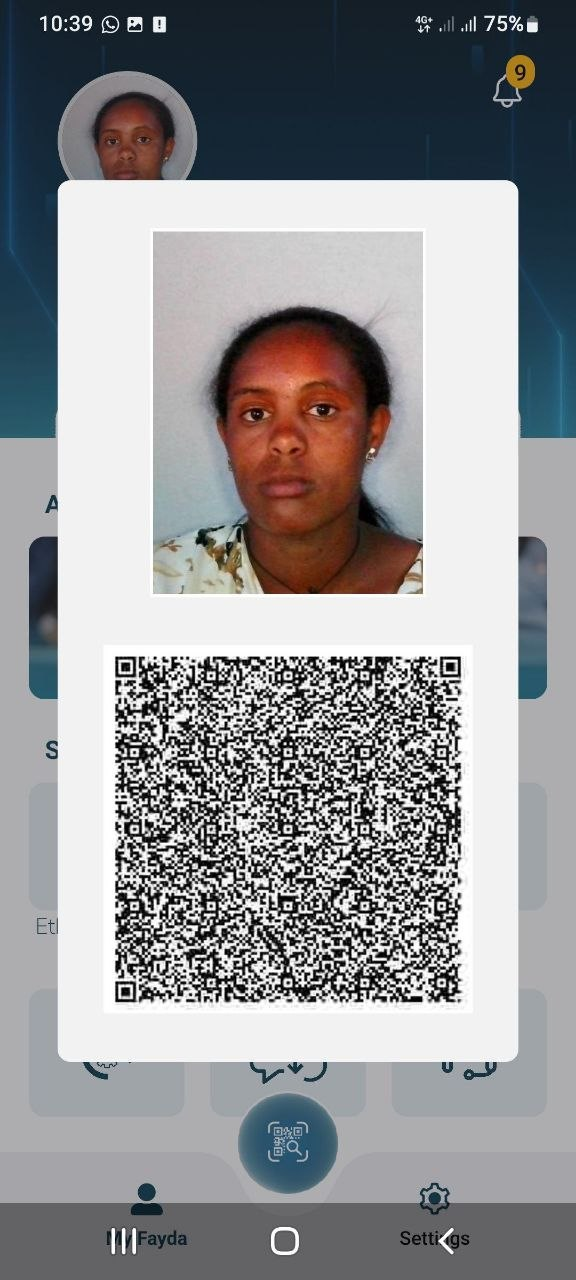
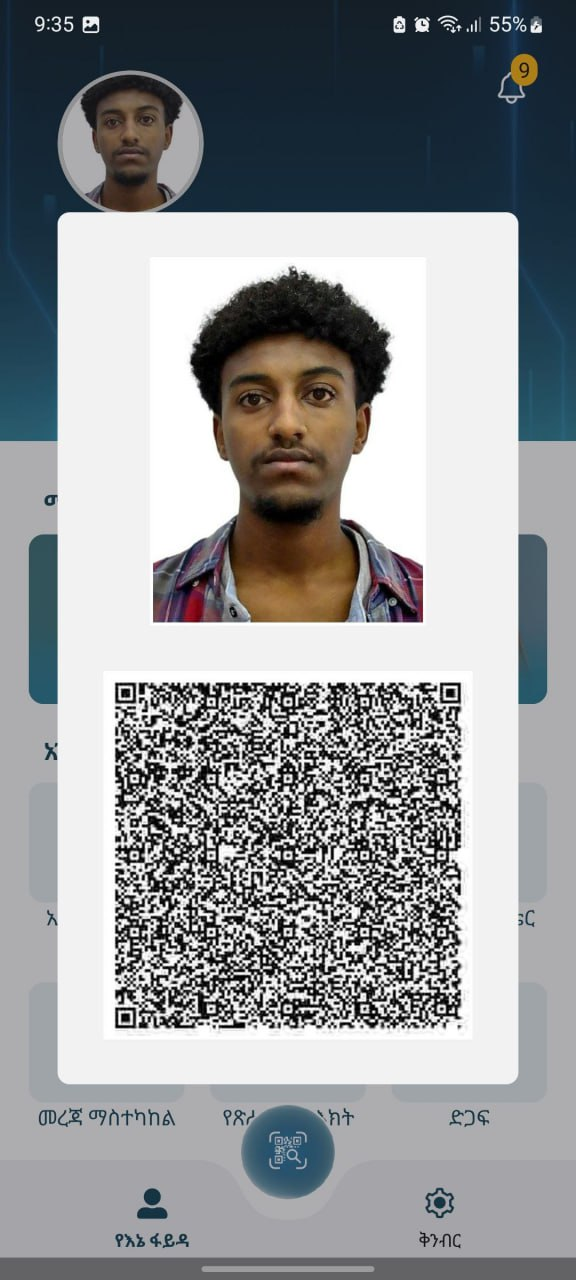
feat: enhance Amharic name extraction from QR codes, refactor transliteration logic, and update sample ID card data.

diff --git a/final_id_result.html b/final_id_result.html
@@ -747,23 +747,23 @@
           <div class="field" style="margin-bottom:8px;">
             <span class="label">ሙሉ ስም | Full Name</span>
             <div class="val-am">
-              ገንዘብ ተክሉ ጥላሁን
+              ካለአብ አስፍው ሙሉጌታ
             </div>
             <div class="val-en">
-              Genzeb Teklu Tilahun
+              Kaleab Asfaw Mulugeta
             </div>
           </div>
           <div class="field">
             <span class="label">የትውልድ ቀን | Date of Birth</span>
             <div class="val-inline">
               
-              05/06/1971 | 2006/01/23
+              05/06/1971 | 2002/10/03
               
             </div>
           </div>
           <div class="field">
             <span class="label">ፆታ | Sex</span>
-            <div class="val-inline">ሴት | Female</div>
+            <div class="val-inline">ወንድ | Male</div>
           </div>
           <div class="field">
             <span class="label">የሚቆይበት ቀን | Date of Expiry</span>
@@ -799,7 +799,7 @@
           <div class="left-side">
             <div class="field">
               <span class="label">ስልክ | Phone Number</span>
-              <div class="val-inline">0950513818</div>
+              <div class="val-inline">0930838126</div>
             </div>
             <div class="field">
               <span class="label">ዜግነት | Nationality<br>
@@ -811,14 +811,14 @@
             <div class="field">
               <span class="label">አድራሻ | Address</span>
               <div class="val-inline">
-                ኦሮሚያ<br>Oromia<br>
-                በአለእ<br>Bale<br>
-                አገአረፈአ<br>Agarfa
+                አማራ<br>Amhara<br>
+                ኖርት ሸዋ<br>North Shewa<br>
+                መንጃርና ሸንኮራ<br>Menjarna Shenkora
               </div>
             </div>
             <div class="field">
               <span class="label">የመታወቂያ ቁጥር | FIN Number</span>
-              <div class="val-inline">—</div>
+              <div class="val-inline">0930838126</div>
             </div>
             <br>
             <span style="display:inline-block;overflow:hidden;line-height:0;margin-top:-10px;">

diff --git a/main.py b/main.py
@@ -103,8 +103,18 @@ def parse_qr_data(qr_string):
     data = {}
 
     try:
+        # Fayda QR format can vary; we check indices carefully
         if len(parts) > 2:
             data["name"] = parts[2]
+            # Check if name itself contains Amharic (rare in QR but possible)
+            if any(0x1200 <= ord(c) <= 0x137F for c in parts[2]):
+                data["name_am"] = parts[2]
+        
+        # Some versions have Amharic fields later or in different parts
+        for p in parts:
+            if any(0x1200 <= ord(c) <= 0x137F for c in p) and len(p) > 2:
+                if "name_am" not in data: data["name_am"] = p
+        
         if len(parts) > 6:
             data["sex"] = "Female" if parts[6] == "F" else "Male" if parts[6] == "M" else parts[6]
         if len(parts) > 8:
@@ -137,58 +147,66 @@ def transliterate_to_amharic(text):
     orig_text = text
     text = re.sub(r'[^a-zA-Z\s]', '', text).upper().strip()
     
-    # Specific common name part mappings to make it "perfect"
-    special_mappings = {
-        "HAFIZA": "ሀፊዛ", "ABDULHAMID": "አብዱልሀሚድ", "ABDUL": "አብዱል", "HAMID": "ሀሚድ", 
-        "USMAN": "ኡስማን", "MOHAMMED": "መሐመድ", "AHMED": "አህመድ", "ABEB": "አበባ", 
-        "GENZEB": "ገንዘብ", "TEKLU": "ተክሉ", "TILAHUN": "ጥላሁን",
-        "KEBEDE": "ከበደ", "TESFAYE": "ተስፋዬ", "ALEMU": "አለሙ", "BEKELE": "በቀለ",
-        "ZELEKE": "ዘለቀ", "GIRMA": "ግርማ", "HAILU": "ኃይሉ", "ASSAFA": "አሰፋ",
-        "AMHARA": "አማራ", "OROMIA": "ኦሮሚያ", "SIDAMA": "ሲዳማ", "SOMALI": "ሶማሌ",
-        "TIGRAY": "ትግራይ", "AFAR": "አፋር", "GAMBELA": "ጋምቤላ", "HARARI": "ሐረሪ",
-        "ADDIS ABABA": "አዲስ አበባ", "DIRE DAWA": "ድሬዳዋ", "SHEWA": "ሸዋ",
-        "BALE": "ባሌ", "AGARFA": "አጋርፋ", "JIMMA": "ጅማ", "ADAMA": "አዳማ", "BAHIR DAR": "ባሕር ዳር"
+    # Advanced CV mapping
+    # Consonants (in Sadis - 6th form)
+    cons = {
+        'B': 'ብ', 'C': 'ክ', 'D': 'ድ', 'F': 'ፍ', 'G': 'ግ', 'H': 'ህ', 'J': 'ጅ', 'K': 'ክ', 'L': 'ል', 
+        'M': 'ም', 'N': 'ን', 'P': 'ፕ', 'Q': 'ቅ', 'R': 'ር', 'S': 'ስ', 'T': 'ት', 'V': 'ቭ', 'W': 'ው', 
+        'X': 'ክስ', 'Y': 'ይ', 'Z': 'ዝ', 'CH': 'ች', 'SH': 'ሽ', 'PH': 'ፍ', 'TH': 'ት', 'TS': 'ጽ', 'NY': 'ኝ'
+    }
+    # Vowel transformations (Ge'ez-based)
+    vowels = {
+        'A': 0, 'U': 1, 'I': 2, 'O': 6, 'E': 5
     }
     
-    for eng, amh in special_mappings.items():
-        text = text.replace(eng, amh)
-    
-    mapping = {
-        'CH': 'ቸ', 'SH': 'ሸ', 'PH': 'ፈ', 'TH': 'ተ', 'ZH': 'ዠ', 'KH': 'ኸ', 'TS': 'ጸ', 'NY': 'ኘ',
-        'QU': 'ቁ', 'EE': 'ኢ', 'OO': 'ኡ', 'AY': 'ኤ', 'OW': 'አው', 'AW': 'አው', 'AI': 'አይ',
-        'A': 'አ', 'E': 'እ', 'I': 'ኢ', 'O': 'ኦ', 'U': 'ኡ',
-        'B': 'በ', 'C': 'ከ', 'D': 'ደ', 'F': 'ፈ', 'G': 'ገ', 'H': 'ሀ', 'J': 'ጀ',
-        'K': 'ከ', 'L': 'ለ', 'M': 'መ', 'N': 'ነ', 'P': 'ፐ', 'Q': 'ቀ', 'R': 'ረ',
-        'S': 'ሰ', 'T': 'ተ', 'V': 'ቨ', 'W': 'ወ', 'X': 'ክስ', 'Y': 'የ', 'Z': 'ዘ'
-    }
-    
-    res = ""
-    i = 0
-    words = text.split()
+    # Syllable table (Sadis base + offset)
+    def build_syllable(c_sadis, v_char):
+        if not v_char or v_char not in vowels: return c_sadis
+        base_ord = ord(c_sadis)
+        offset = vowels[v_char]
+        irregulars = {
+            'ሀ': 0, 'ለ': 8, 'ሐ': 16, 'መ': 24, 'ሠ': 32, 'ረ': 40, 'ሰ': 48, 'ሸ': 56, 'ቀ': 64, 
+            'በ': 72, 'ተ': 80, 'ቸ': 88, 'ኀ': 96, 'ነ': 104, 'ኘ': 112, 'አ': 120, 'ከ': 128, 
+            'ኸ': 136, 'ወ': 144, 'ዐ': 152, 'ዘ': 160, 'ዠ': 168, 'የ': 176, 'ደ': 184, 'ጀ': 192, 
+            'ገ': 200, 'ጠ': 208, 'ጨ': 216, 'ጰ': 224, 'ጸ': 232, 'ፀ': 240, 'ፈ': 248, 'ፐ': 256
+        }
+        geez = None
+        for k, v in irregulars.items():
+            if base_ord >= 0x1200 + v and base_ord < 0x1200 + v + 7:
+                geez = chr(0x1200 + v); break
+        if geez:
+            if v_char == 'A': return chr(ord(geez) + 3) # Rabi
+            if v_char == 'E': return geez # Default to Ge'ez
+            if v_char == 'I': return chr(ord(geez) + 2)
+            return chr(ord(geez) + offset)
+        return c_sadis
+
     final_words = []
-    
-    for word in words:
-        if word and ord(word[0]) >= 0x1200 and ord(word[0]) <= 0x137F: # Already Amharic from special_mappings
-            final_words.append(word)
-            continue
-            
-        w_res = ""
-        wi = 0
+    for word in text.split():
+        if not word: continue
+        if any(0x1200 <= ord(c) <= 0x137F for c in word):
+            final_words.append(word); continue
+        w_res = ""; wi = 0
         while wi < len(word):
-            found = False
-            if wi + 1 < len(word):
-                pair = word[wi:wi+2]
-                if pair in mapping:
-                    w_res += mapping[pair]
-                    wi += 2
-                    found = True
-            if not found:
-                char = word[wi]
-                if char in mapping:
-                    w_res += mapping[char]
+            c_part = ""
+            if wi + 1 < len(word) and word[wi:wi+2] in cons:
+                c_part = word[wi:wi+2]; wi += 2
+            elif word[wi] in cons:
+                c_part = word[wi]; wi += 1
+            if c_part:
+                if wi < len(word) and word[wi] in vowels:
+                    w_res += build_syllable(cons[c_part], word[wi]); wi += 1
+                else:
+                    w_res += cons[c_part]
+            else:
+                v = word[wi]
+                if v == 'A': w_res += 'አ'
+                elif v == 'U': w_res += 'ኡ'
+                elif v == 'I': w_res += 'ኢ'
+                elif v == 'O': w_res += 'ኦ'
+                elif v == 'E': w_res += 'እ'
                 wi += 1
         final_words.append(w_res)
-        
     return " ".join(final_words)
 
 def extract_dates_smart(text, is_dob=True):
@@ -538,8 +556,16 @@ def extract_front(image, qr_data=None):
             data["name_en"] = " ".join(u_en[:4])
 
         # Noise rejection for Amharic
-        if data["name_am"] != "—" and any(n in data["name_am"] for n in ["ከህ", "ከህከ", "ርዐ", "፡", "፦", "፥"]):
-            data["name_am"] = "—"
+        # We classify as noise if it has too many symbols or known OCR artifacts
+        if data["name_am"] != "—":
+            noise_chars = ["፡", "፦", "፥", "ርዐ", "ከህ", "ከህከ", "ጩ", "ቺ", "ኚ", "ጯ", "ፚ"]
+            if any(n in data["name_am"] for n in noise_chars):
+                data["name_am"] = "—"
+            # If name contains characters that are almost never in names
+            elif re.search(r'[፠-⠿]', data["name_am"]): # Punctuation/Symbols
+                data["name_am"] = "—"
+            elif len(data["name_am"]) < 3:
+                 data["name_am"] = "—"
 
     # --- Other Fields ---
     for key in ["dob", "sex", "expiry", "issue", "fcn"]:
@@ -667,17 +693,30 @@ def extract_front(image, qr_data=None):
     # 6. QR OVERRIDES
     if qr_data:
         if qr_data.get("name"): data["name_en"] = qr_data["name"]
+        if qr_data.get("name_am"): data["name_am"] = qr_data["name_am"]
         if qr_data.get("dob"): data["dob_greg"] = qr_data["dob"]
         if qr_data.get("sex"):
             data["sex_en"] = qr_data["sex"]
             data["sex_am"] = "ወንድ" if qr_data["sex"] == "Male" else "ሴት"
         if qr_data.get("fin"): data["id_number"] = qr_data["fin"]
 
-    # 7. FINAL NAME TRANSLITERATION (After all overrides)
-    if data["name_en"] != "—" and len(data["name_en"]) > 3:
-        # Transliterate to ensure high-quality Amharic name
-        data["name_am"] = transliterate_to_amharic(data["name_en"])
-
+    # 7. FINAL NAME TRANSLITERATION (Smart Fallback)
+    if data["name_en"] != "—":
+        trans_am = transliterate_to_amharic(data["name_en"])
+        
+        # If Amharic is missing, use transliteration
+        if data["name_am"] == "—" or len(data["name_am"]) < 3:
+            data["name_am"] = trans_am
+        else:
+            # If we have both, compare them. 
+            # If OCR is completely different length than English words, it might be noise
+            en_word_count = len(data["name_en"].split())
+            am_word_count = len(data["name_am"].split())
+            if abs(en_word_count - am_word_count) > 1:
+                data["name_am"] = trans_am
+            # Otherwise, we keep the OCR as requested ("exact as image")
+            # unless the OCR has suspicious characters
+    
     return data
 
 
